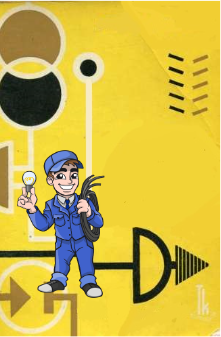
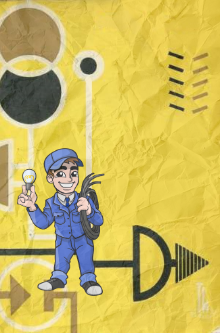
Add files via upload

diff --git a/labirint.html b/labirint.html
@@ -42,7 +42,7 @@
 		<h1>Elektricne<br>instalacije</h1>
 		<button class="gumb3" id="salert" onclick="salert();"></button>
 		</div>
-		<img src="slike/plakat.png" class="plakat darken" id="plakat">
+		<img src="slike/plakat1.png" class="plakat darken" id="plakat">
 		
 	</div>
 			
